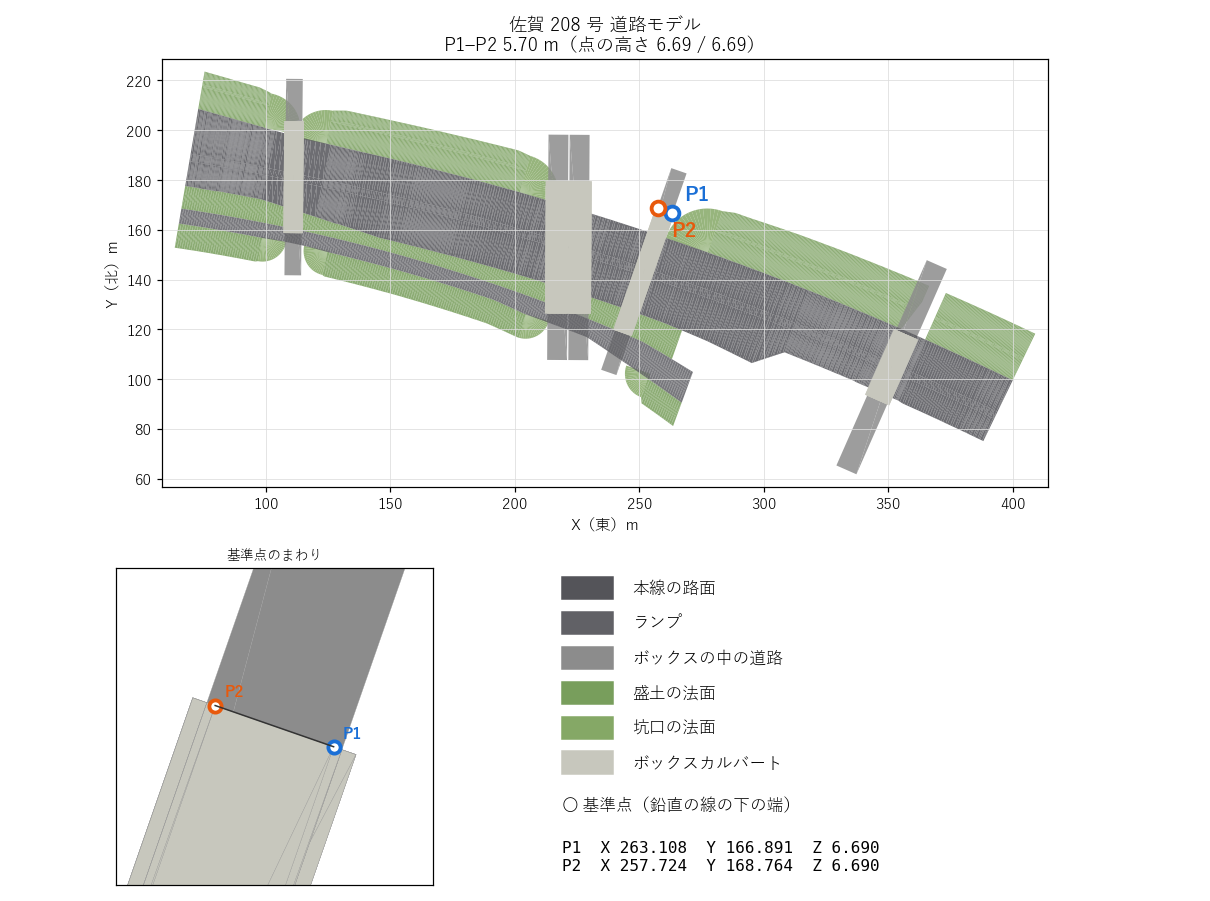
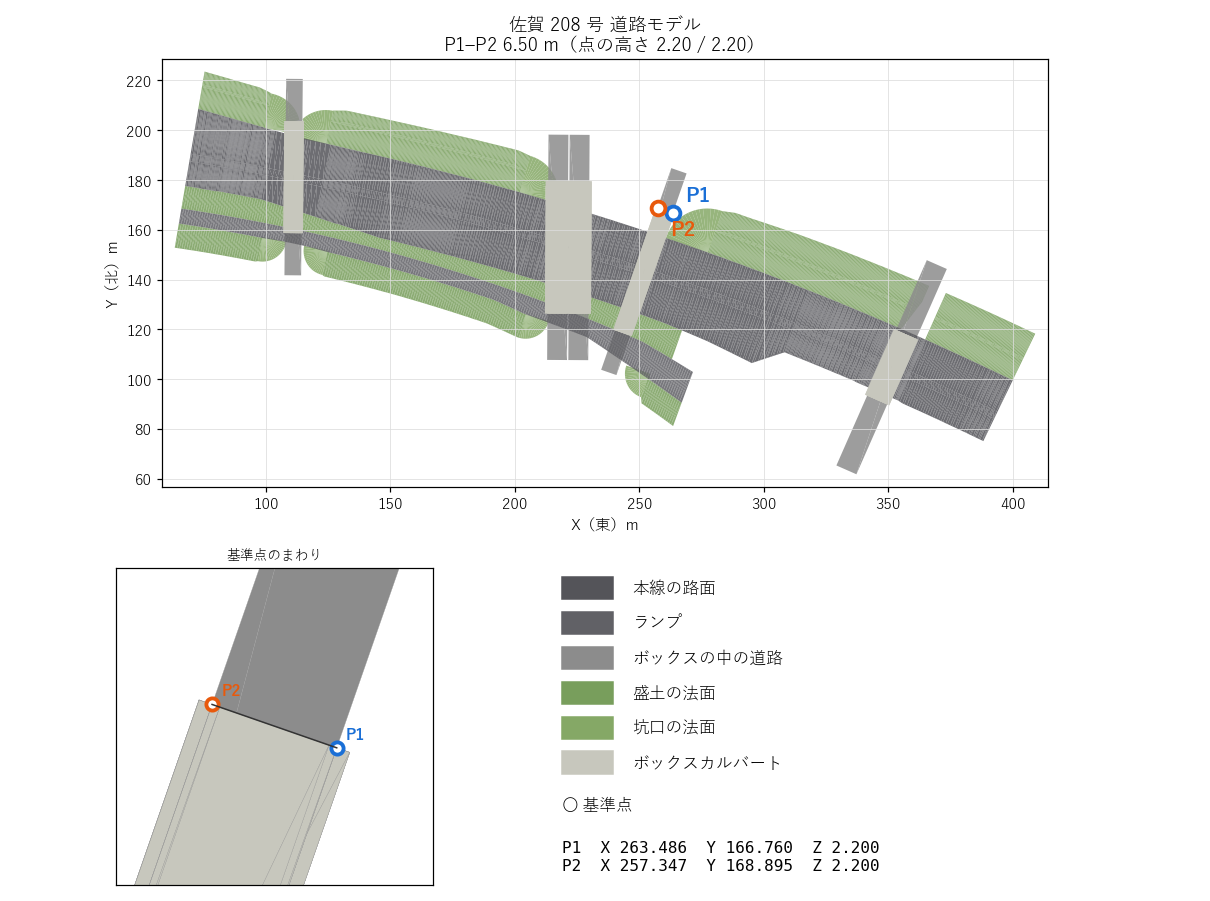
align: 基準点をボックス 8-1 号の坑口の「内壁と中の道路の角」へ（天井は AR で当てにくい）
高さ 6.69（天井のハンチの角）→ 2.20（中の道路）、壁まで 0.40 m 外へ。2 点の間 5.70 → 6.50 m
作り直し: python tools/dxf_to_site.py model.dxf --points "263.4859,166.7597,2.20;257.3467,168.8951,2.20"

diff --git a/tools/dxf_to_site.py b/tools/dxf_to_site.py
@@ -244,7 +244,7 @@ def write_plan(faces, points, path, title):
             leg.add_patch(plt.Rectangle((0.02, yy - 0.05), 0.08, 0.07, color=LAYER_COLOR[lay], transform=leg.transAxes))
             leg.text(0.13, yy - 0.015, nm, transform=leg.transAxes, va="center", fontsize=11)
             yy -= 0.11
-    leg.text(0.02, yy - 0.04, "〇 基準点（鉛直の線の下の端）", transform=leg.transAxes, fontsize=11, va="center")
+    leg.text(0.02, yy - 0.04, "〇 基準点", transform=leg.transAxes, fontsize=11, va="center")
     leg.text(0.02, yy - 0.15, "\n".join(f"{p['name']}  X {p['x']:.3f}  Y {p['y']:.3f}  Z {p['z']:.3f}" for p in points),
              transform=leg.transAxes, fontsize=10.5, va="top", family="monospace")
     fig.tight_layout()
@@ -258,6 +258,8 @@ def main():
     ap.add_argument("--box", help="road_box.lsp（無ければ DXF と同じフォルダを探す）")
     ap.add_argument("--title", default="道路モデル")
     ap.add_argument("--out", default=os.path.join(ROOT, "align"))
+    ap.add_argument("--points", help='基準点を直接指定 "X,Y,Z;X,Y,Z"（鉛直の LINE より優先）')
+    ap.add_argument("--points-note", default="", help="--points の点の説明（config.json の note に入る）")
     a = ap.parse_args()
 
     faces, lines = parse(a.dxf)
@@ -273,6 +275,12 @@ def main():
             lo = p if p[2] < q[2] else q
             pts.append({"name": f"P{len(pts) + 1}", "x": round(lo[0], 4), "y": round(lo[1], 4), "z": round(lo[2], 4),
                         "note": f"鉛直の線（長さ {abs(p[2] - q[2]):.1f} m）の下の端"})
+    if a.points:
+        notes = a.points_note.split(";") if a.points_note else []
+        pts = []
+        for k, s in enumerate(a.points.split(";")):
+            x, y, z = (float(c) for c in s.split(","))
+            pts.append({"name": f"P{k + 1}", "x": x, "y": y, "z": z, "note": notes[k] if k < len(notes) else "指定した点"})
     if len(pts) < 2:
         raise SystemExit(f"鉛直の LINE が {len(pts)} 本しかありません（2 本要る）")
 
